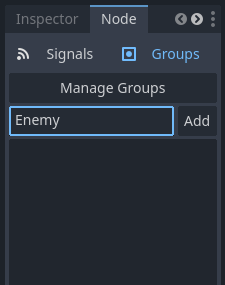
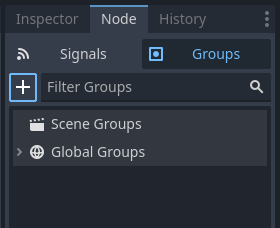
Updates 6/23

diff --git a/enemies1.html b/enemies1.html
@@ -42,8 +42,10 @@
 			<h4>Creating the Enemy Scene</h4>
 			<p>To get started with our Enemy scene, create a new blank scene. Choose the other node option and select the CharacterBody2D node as the scene's root node and rename it Enemy. We want to use a CharacterBody2D node because, just like our player, we want the enemies to have physics. Next add two children nodes to the Enemy node: an AnimatedSprite2D and a CollisionShape2D.</p>
 			<img src="images/challenges/enemy_scene_tree.png" class="img-fluid" alt="Enemy scene tree">
-			<p>You may notice the square icon next to the Enemy node in the image above. This symbolizes that the node is in a <strong>Group</strong>. Groups are effectively tags to help categorize nodes. To add a group to the Enemy node, select it and go to the inspector. Select the Node tab, then below that select the Groups tab (you will notice the same square icon.) In the blank box beneath Manage Groups, type Enemy and press add.</p>
+			<p>You may notice the square icon next to the Enemy node in the image above. This symbolizes that the node is in a <strong>Group</strong>. Groups are effectively tags to help categorize nodes. To add a group to the Enemy node, select it and go to the inspector. Select the Node tab, then below that select the Groups tab (you will notice the same square icon.) We will need to create a new global group for enemies by first pressing the plus symbol.</p>
 			<img src="images/challenges/new_group.png" class="img-fluid" alt="Adding a new group">
+			<p>Then, name the new group Enemy, turn the Global slider on, then press create.</p>
+			<img src="images/challenges/new_group_name.png" class="img-fluid" alt="Naming a new group">
 			<p>The new group will show up in the list below, and the square icon will appear next to the Enemy node. Next, we need to set the Enemy node's collision. Still in the inspector go to the inspector tab and find the collision category. Change the physics layers to the hazard layer and the physics masks to the world layer (we want the enemy to be treated as a hazard and look for the level for collisions.)</p>
 			<img src="images/challenges/enemy_collision.png" class="img-fluid" alt="Setting enemy node collision layers">
 			<h4>Creating the Enemy Script</h4>

diff --git a/create_world_scene.html b/create_world_scene.html
@@ -34,7 +34,7 @@
 			<img src="images/getting_started/first_steps/blank_scene_other_node.png" class="img-fluid" alt="Blank Scene Tree">
 			<p>For a level, we don't need any special functionality so we only need to select 2D Scene as our root node. Let's name our root node World.</p>
 			<h4>Adding Tiles</h4>
-			<p>Of course, right now our level is still empty. In order to make a level we will be using <strong>Tiles</strong>. You can think of tiles as the building blocks that you use to create a level. In order to add them we need a TileMap node. Right click the world node and add a new node. Navigate through the menu and find the TileMap node (the icon should be a grid pattern.) Select the TileMap node and look over to the inspector.</p>
+			<p>Of course, right now our level is still empty. In order to make a level we will be using <strong>Tiles</strong>. You can think of tiles as the building blocks that you use to create a level. In order to add them we need a TileMapLayer node. Right click the world node and add a new node. Navigate through the menu and find the TileMapLayer node (the icon should be a grid pattern at an angled perspective. TileMap nodes are similar but have been phased out by Godot!) Select the TileMapLayer node and look over to the inspector.</p>
 			<img src="images/getting_started/first_steps/new_tileset.png" class="img-fluid" alt="TileMap Inspector">
 			<p>In the inspector select the tile set property and create a new TileSet, then select the new tileset. A blue menu will appear in the inspector as well as two new tabs in the bottom panel. In the inspector go to the physic layers section of the TileSet menu, create a new element, and then disable the masks (the layer will be kept as world (1).)</p>
 			<img src="images/getting_started/first_steps/tile_physic_layers.png" class="img-fluid" alt="TileSet Layers and Masks">
